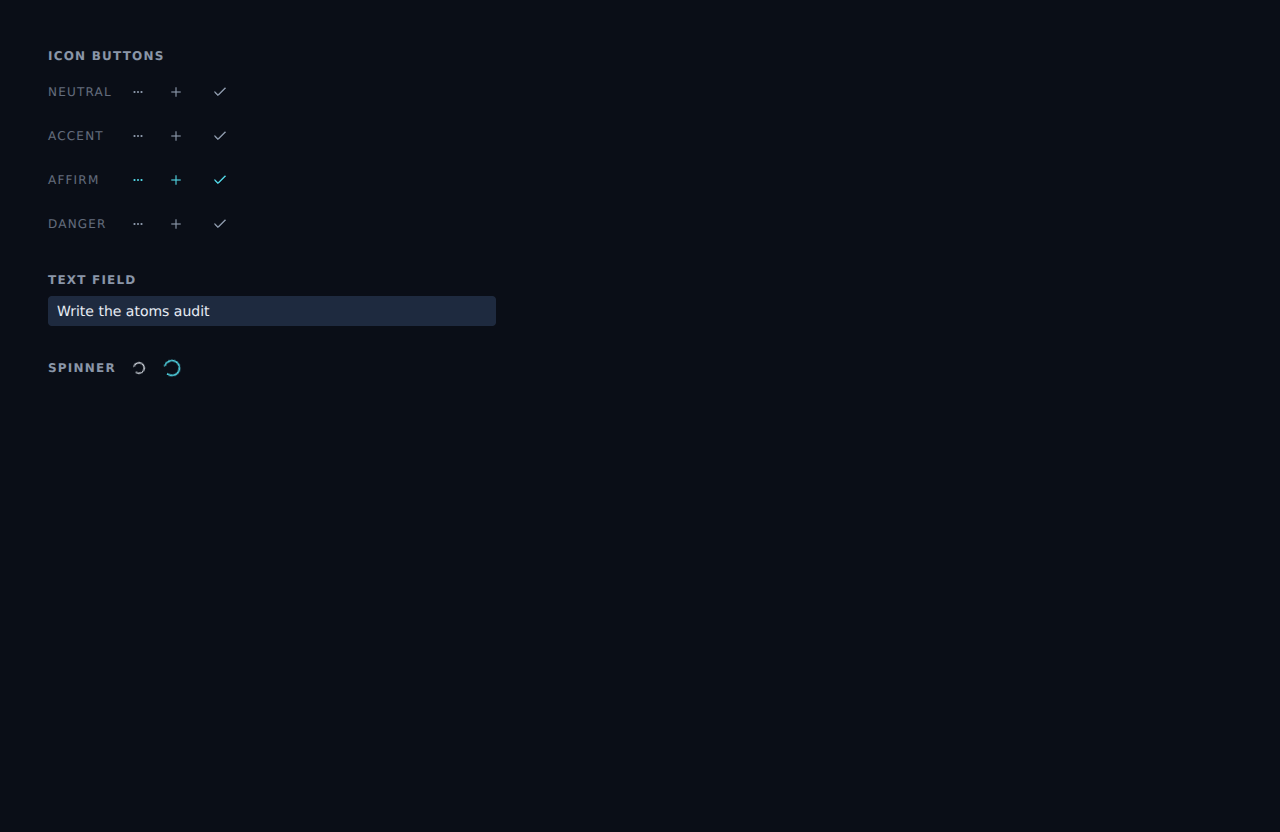
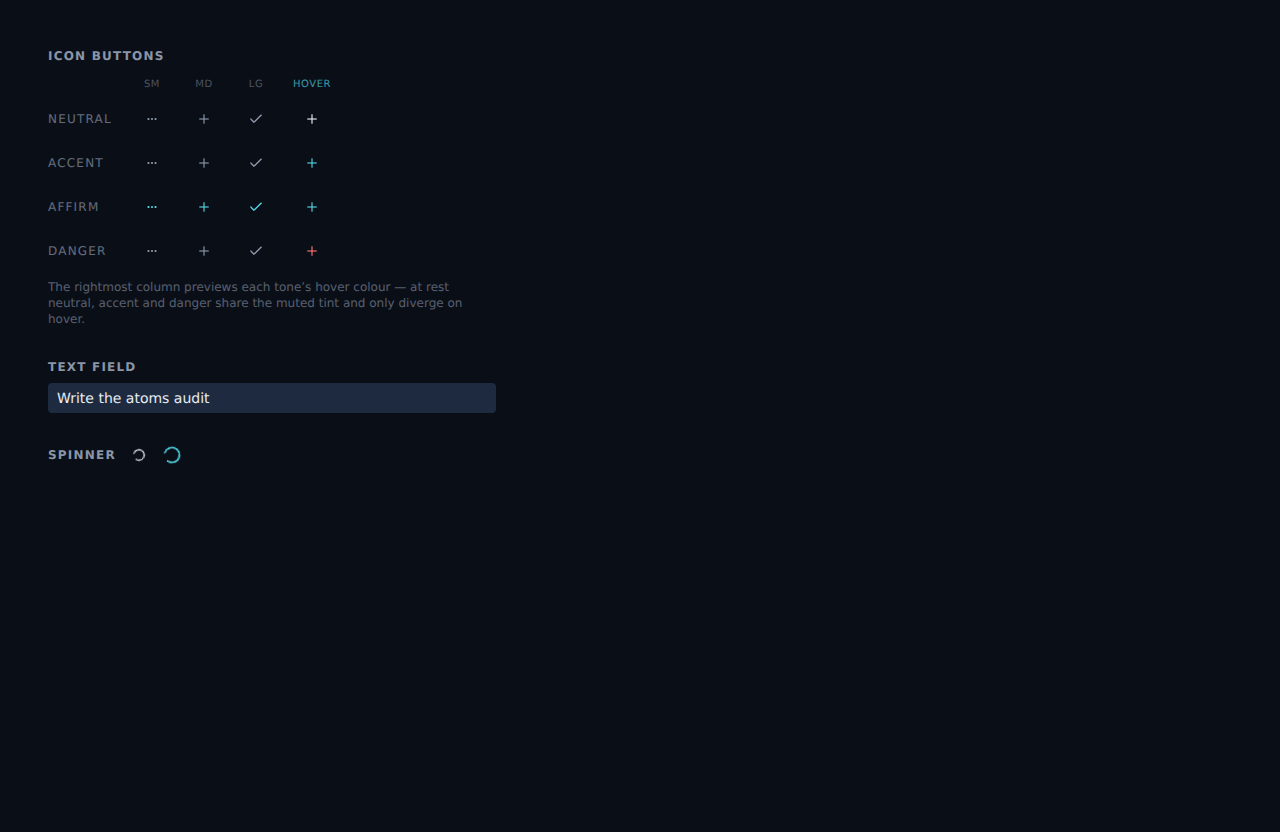
docs(atoms): add hover-state preview column to the atoms gallery

diff --git a/frontend/components/atoms/atoms-gallery.stories.tsx b/frontend/components/atoms/atoms-gallery.stories.tsx
@@ -24,29 +24,77 @@ type Story = StoryObj<typeof meta>;
 
 const TONES = ['neutral', 'accent', 'affirm', 'danger'] as const;
 
+/**
+ * The text colour each tone resolves to on hover. Forced via className here so the
+ * static gallery can preview the hover state that's otherwise only visible on
+ * pointer-over — at rest neutral, accent and danger all share the muted tint.
+ */
+const HOVER_PREVIEW: Record<(typeof TONES)[number], string> = {
+  neutral: 'text-foreground',
+  accent: 'text-accent-teal',
+  affirm: 'text-accent-teal',
+  danger: 'text-destructive',
+};
+
 export const Library: Story = {
   render: () => (
     <div className="flex max-w-md flex-col gap-8">
       <section className="flex flex-col gap-3">
         <FieldLabel>Icon buttons</FieldLabel>
-        <div className="flex flex-col gap-3">
+        <div className="grid grid-cols-[4.5rem_2.5rem_2.5rem_2.5rem_3rem] items-center gap-x-3 gap-y-3">
+          {/* Column headers */}
+          <span />
+          <span className="text-center text-[10px] uppercase tracking-wider text-muted-foreground/50">
+            sm
+          </span>
+          <span className="text-center text-[10px] uppercase tracking-wider text-muted-foreground/50">
+            md
+          </span>
+          <span className="text-center text-[10px] uppercase tracking-wider text-muted-foreground/50">
+            lg
+          </span>
+          <span className="text-center text-[10px] uppercase tracking-wider text-accent-teal/70">
+            hover
+          </span>
+
           {TONES.map((tone) => (
-            <div key={tone} className="flex items-center gap-4">
-              <span className="w-16 text-xs uppercase tracking-widest text-muted-foreground/70">
+            <React.Fragment key={tone}>
+              <span className="text-xs uppercase tracking-widest text-muted-foreground/70">
                 {tone}
               </span>
-              <IconButton tone={tone} size="sm" aria-label={`${tone} small`}>
-                <MoreHorizontal size={12} />
-              </IconButton>
-              <IconButton tone={tone} size="md" aria-label={`${tone} medium`}>
-                <Plus size={14} />
-              </IconButton>
-              <IconButton tone={tone} size="lg" aria-label={`${tone} large`}>
-                <Check size={16} />
-              </IconButton>
-            </div>
+              <span className="flex justify-center">
+                <IconButton tone={tone} size="sm" aria-label={`${tone} small`}>
+                  <MoreHorizontal size={12} />
+                </IconButton>
+              </span>
+              <span className="flex justify-center">
+                <IconButton tone={tone} size="md" aria-label={`${tone} medium`}>
+                  <Plus size={14} />
+                </IconButton>
+              </span>
+              <span className="flex justify-center">
+                <IconButton tone={tone} size="lg" aria-label={`${tone} large`}>
+                  <Check size={16} />
+                </IconButton>
+              </span>
+              {/* Forced-hover preview (md) */}
+              <span className="flex justify-center">
+                <IconButton
+                  tone={tone}
+                  size="md"
+                  className={HOVER_PREVIEW[tone]}
+                  aria-label={`${tone} hover`}
+                >
+                  <Plus size={14} />
+                </IconButton>
+              </span>
+            </React.Fragment>
           ))}
         </div>
+        <p className="text-xs text-muted-foreground/60">
+          The rightmost column previews each tone&rsquo;s hover colour — at rest neutral, accent and
+          danger share the muted tint and only diverge on hover.
+        </p>
       </section>
 
       <section className="flex flex-col gap-2">

diff --git a/docs/demos/shared-ui-atoms.md b/docs/demos/shared-ui-atoms.md
@@ -4,7 +4,7 @@
 
 The frontend's repeated UI primitives — square ghost icon buttons, inline text inputs, the saving spinner, and the uppercase field-label eyebrow — were copy-pasted across task rows, the folder nav, the capture box, and the mobile nav. They are now four reusable atoms in `frontend/components/atoms/`, each with unit tests and Storybook stories, and the consumers compose them instead of repeating raw markup.
 
-The component library at a glance — `IconButton` (four tones × three sizes; affirm is teal), `TextField`, `Spinner`, and `FieldLabel`, rendered together from the `Atoms/Gallery` Storybook story on the app's dark theme:
+The component library at a glance — `IconButton` (four tones × three sizes, plus a forced-hover column since at rest neutral/accent/danger share the muted tint and only diverge on hover), `TextField`, `Spinner`, and `FieldLabel`, rendered together from the `Atoms/Gallery` Storybook story on the app's dark theme:
 
 ![](shared-ui-atoms-image-1.png)
 